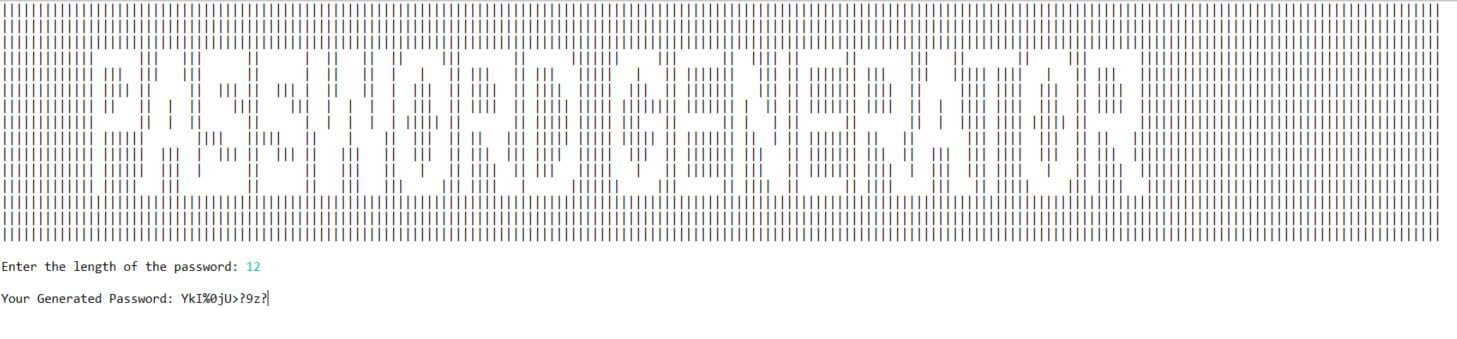
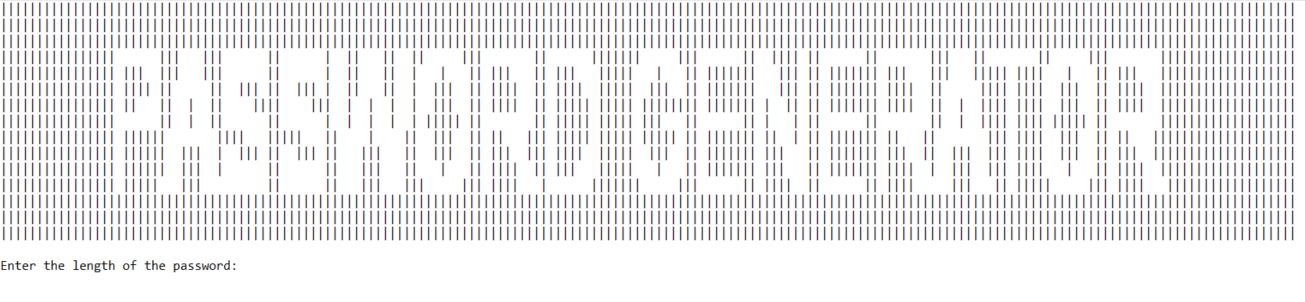
changed the image for the README.md file

diff --git a/src/PasswordGenerator.java b/src/PasswordGenerator.java
@@ -32,7 +32,7 @@ public class PasswordGenerator {
 	
 	// Generated ASCII Welcome Message
 	public void welcomeMessage() {
-		int width = 200;
+		int width = 180;
         int height = 15;
 		
 		BufferedImage bufferedImage = new BufferedImage(width, height, BufferedImage.TYPE_INT_RGB);
@@ -42,7 +42,7 @@ public class PasswordGenerator {
 		Graphics2D graphics2D = (Graphics2D) graphics;
 		graphics2D.setRenderingHint(RenderingHints.KEY_TEXT_ANTIALIASING, 
 								RenderingHints.VALUE_TEXT_ANTIALIAS_ON);
-		graphics2D.drawString("PASSWORD GENERATOR", 12, 12);
+		graphics2D.drawString("PASSWORD GENERATOR", 15, 12);
 		
 		for (int y = 0; y < height; y++) {
             StringBuilder sb = new StringBuilder();
